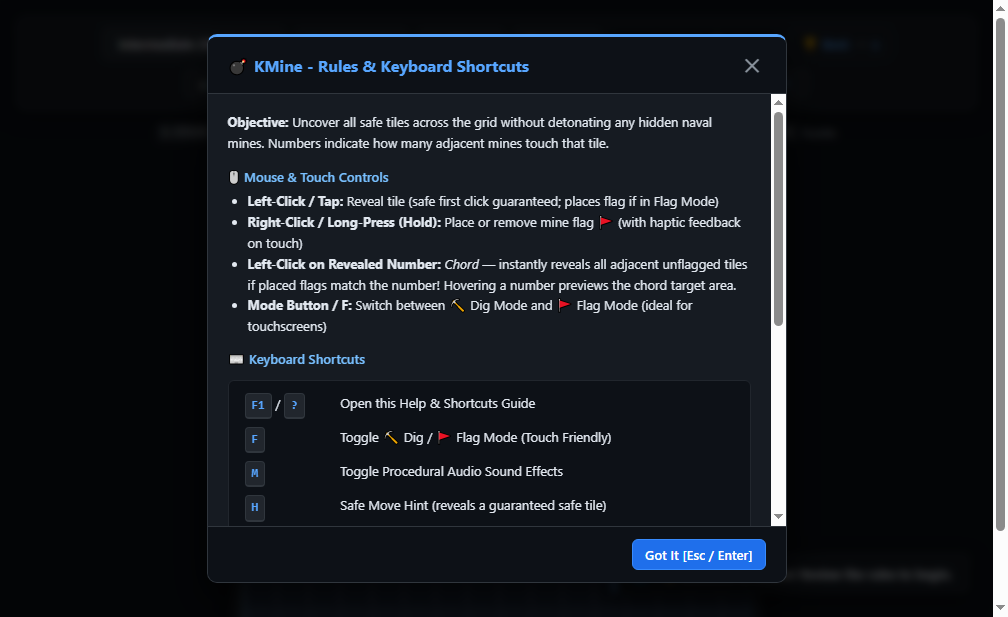
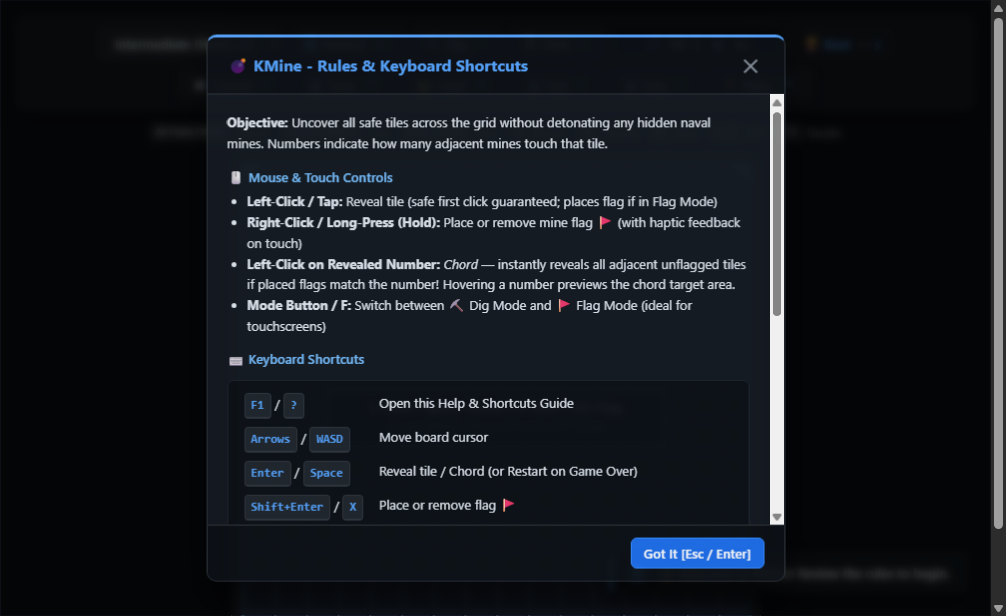
audit(test): UI audit and fixes for KMine

diff --git a/KiloOS/public/apps/kmine.html b/KiloOS/public/apps/kmine.html
@@ -375,18 +375,19 @@
       <div style="font-weight: 600; color: #79c0ff; margin-bottom: 4px;">⌨ Keyboard Shortcuts</div>
       <div class="shortcut-grid">
         <div><kbd>F1</kbd> / <kbd>?</kbd></div><div>Open this Help & Shortcuts Guide</div>
+        <div><kbd>Arrows</kbd> / <kbd>WASD</kbd></div><div>Move board cursor</div>
+        <div><kbd>Enter</kbd> / <kbd>Space</kbd></div><div>Reveal tile / Chord (or Restart on Game Over)</div>
+        <div><kbd>Shift+Enter</kbd> / <kbd>X</kbd></div><div>Place or remove flag 🚩</div>
         <div><kbd>F</kbd></div><div>Toggle ⛏ Dig / 🚩 Flag Mode (Touch Friendly)</div>
         <div><kbd>M</kbd></div><div>Toggle Procedural Audio Sound Effects</div>
         <div><kbd>H</kbd></div><div>Safe Move Hint (reveals a guaranteed safe tile)</div>
         <div><kbd>F2</kbd></div><div>Restart New Game on current difficulty</div>
-        <div><kbd>1</kbd></div><div>Beginner Mode (10×10, 15 mines)</div>
-        <div><kbd>2</kbd></div><div>Intermediate Mode (16×16, 40 mines)</div>
-        <div><kbd>3</kbd></div><div>Expert Mode (30×16, 99 mines)</div>
+        <div><kbd>1</kbd> / <kbd>2</kbd> / <kbd>3</kbd></div><div>Beginner (1), Intermediate (2), Expert (3)</div>
         <div><kbd>F5</kbd></div><div>Quicksave current game state</div>
         <div><kbd>F9</kbd></div><div>Quickload saved game state</div>
         <div><kbd>E</kbd></div><div>Export Best Times & Records (JSON)</div>
         <div><kbd>I</kbd></div><div>Import Best Times & Records (JSON)</div>
-        <div><kbd>P</kbd> / <kbd>Space</kbd></div><div>Watch Replay (after game completion)</div>
+        <div><kbd>P</kbd></div><div>Watch Replay (after game completion)</div>
         <div><kbd>Esc</kbd></div><div>Close Help Modal / Dismiss Toasts</div>
       </div>
     </div>
@@ -426,9 +427,9 @@
 </div>
 
 <div class="info-bar">
-  <span><kbd>L-Click</kbd> Reveal</span>
-  <span><kbd>R-Click</kbd> Flag</span>
-  <span><kbd>Click Number</kbd> Chord</span>
+  <span><kbd>Arrows/WASD</kbd> Move</span>
+  <span><kbd>Enter/Space</kbd> Dig</span>
+  <span><kbd>X/R-Click</kbd> Flag</span>
   <span><kbd>F</kbd> Mode</span>
   <span><kbd>M</kbd> Sound</span>
   <span><kbd>H</kbd> Hint</span>
@@ -437,7 +438,7 @@
 </div>
 
 <div id="canvas-container">
-  <canvas id="cvs"></canvas>
+  <canvas id="cvs" tabindex="0" role="region" aria-label="KMine Grid Board"></canvas>
 </div>
 
 <script>
@@ -849,10 +850,23 @@
     reader.onload = function(ev) {
       try {
         let parsed = JSON.parse(ev.target.result);
-        if (parsed && typeof parsed === 'object') {
-          bestTimes = Object.assign(bestTimes, parsed);
-          saveStats();
-          showToast("📥 Statistics imported successfully!", "success");
+        if (parsed && typeof parsed === 'object' && !Array.isArray(parsed)) {
+          let updated = false;
+          ["0", "1", "2"].forEach(k => {
+            if (k in parsed) {
+              let v = parsed[k];
+              if (v === null || (typeof v === 'number' && Number.isFinite(v) && v > 0)) {
+                bestTimes[k] = v === null ? null : Math.round(v);
+                updated = true;
+              }
+            }
+          });
+          if (updated) {
+            saveStats();
+            showToast("📥 Statistics imported successfully!", "success");
+          } else {
+            showToast("⚠ No valid best-time records found in file", "warn");
+          }
         } else {
           showToast("❌ Invalid stats format", "error");
         }
@@ -1103,6 +1117,16 @@
     }
   }
   
+  function recordAndApplyMove(x, y, btn) {
+    initAudio();
+    if (gameOver !== 0 || isReplaying) return;
+    if (x < 0 || x >= cols || y < 0 || y >= rows) return;
+    if (firstClick || !startRealTime) startRealTime = Date.now();
+    const moveOffset = Math.max(0, Date.now() - startRealTime);
+    moves.push({ t: moveOffset, x, y, b: btn });
+    applyAction(x, y, btn);
+  }
+
   function giveHint() {
     if (gameOver !== 0 || isReplaying) return;
     let actionX = -1, actionY = -1;
@@ -1123,8 +1147,9 @@
     }
     if (actionX !== -1) {
       playSfx('hint');
-      moves.push({ t: Date.now() - startRealTime, x: actionX, y: actionY, b: 0 });
-      applyAction(actionX, actionY, 0);
+      hoverX = actionX;
+      hoverY = actionY;
+      recordAndApplyMove(actionX, actionY, 0);
       showToast(`💡 Hint: Safely revealed (${actionX + 1}, ${actionY + 1})`, "info", 2000);
     }
   }
@@ -1150,6 +1175,7 @@
         requestAnimationFrame(nextFrame);
       } else {
         isReplaying = false;
+        if (gameOver !== 0) document.getElementById('replayBtn').style.display = 'inline-flex';
         showToast("🎬 Replay completed.", "info", 2000);
       }
     }
@@ -1157,8 +1183,16 @@
   }
 
   function quickSave() {
-    if (gameOver !== 0 || firstClick || isReplaying) {
-      showToast("⚠ Cannot quicksave while game over or replaying.", "warn");
+    if (isReplaying) {
+      showToast("⚠ Cannot quicksave while replaying.", "warn");
+      return;
+    }
+    if (gameOver !== 0) {
+      showToast("⚠ Cannot quicksave a finished game.", "warn");
+      return;
+    }
+    if (firstClick) {
+      showToast("⚠ Reveal at least one tile before saving.", "warn");
       return;
     }
     quickSaveData = {
@@ -1183,13 +1217,14 @@
     try {
       let d = JSON.parse(s);
       cols = d.cols; rows = d.rows; totalMines = d.totalMines;
-      document.getElementById('diff').value = d.diff;
+      if (d.diff !== undefined) document.getElementById('diff').value = d.diff;
       setupCanvas();
       grid = d.grid; state = d.state;
       timeElapsed = d.timeElapsed; flags = d.flags;
-      moves = d.moves;
+      moves = d.moves || [];
       firstClick = false; gameOver = 0; isReplaying = false;
-      startRealTime = Date.now() - d.timeOffset;
+      document.getElementById('replayBtn').style.display = 'none';
+      startRealTime = Date.now() - (d.timeOffset || 0);
       stopTimer(); startTimer();
       updateStatus(); updateBestTimeDisplay();
       safeSetStorage('kmine_tutorialSeen', '1');
@@ -1444,6 +1479,16 @@
           }
         }
 
+        // Active Focused Cursor Highlight (Keyboard / Hover)
+        if (x === hoverX && y === hoverY && gameOver === 0) {
+          ctx.save();
+          const pulse = 0.5 + 0.5 * Math.sin(animTime * 8);
+          ctx.strokeStyle = flagMode ? `rgba(245, 158, 11, ${pulse})` : `rgba(56, 189, 248, ${pulse})`;
+          ctx.lineWidth = 2;
+          ctx.strokeRect(bx + 1, by + 1, CELL - 2, CELL - 2);
+          ctx.restore();
+        }
+
         // Chording Target Preview Highlight
         if (hoverX >= 0 && hoverY >= 0 && gameOver === 0 &&
             state[hoverY][hoverX] === 1 && grid[hoverY][hoverX] > 0 &&
@@ -1562,7 +1607,7 @@
     drawCornerFiligree(totalW - 2, totalH - 2, cornerSize, true, true);
 
     if (firstClick && gameOver === 0) {
-      const bannerW = Math.min(320, totalW - 20);
+      const bannerW = Math.min(340, totalW - 20);
       const bannerH = 56;
       const bx = (totalW - bannerW) / 2;
       const by = (totalH - bannerH) / 2;
@@ -1577,10 +1622,10 @@
       ctx.font = "bold 13px 'Segoe UI', Arial, sans-serif";
       ctx.textAlign = "center";
       ctx.textBaseline = "middle";
-      ctx.fillText("L-Click: Reveal | R-Click / [F]: Flag", totalW / 2, by + 18);
+      ctx.fillText("L-Click / Space: Reveal | R-Click / [X]: Flag", totalW / 2, by + 18);
       ctx.fillStyle = "#38bdf8";
       ctx.font = "12px 'Segoe UI', Arial, sans-serif";
-      ctx.fillText("Press 'H' Hint | 'M' Sound | 'F1' Guide", totalW / 2, by + 38);
+      ctx.fillText("Arrows/WASD: Move | 'H' Hint | 'F1' Guide", totalW / 2, by + 38);
     }
 
     ctx.restore();
@@ -1617,8 +1662,9 @@
   cvs.addEventListener('mousedown', (e) => {
     initAudio();
     if (Date.now() - lastTouchTime < 400) return;
-    if (gameOver !== 0 || isReplaying) {
-      if (gameOver !== 0) initGame();
+    if (isReplaying) return;
+    if (gameOver !== 0) {
+      initGame();
       return;
     }
     const rect = cvs.getBoundingClientRect();
@@ -1628,14 +1674,14 @@
     const y = Math.floor((e.clientY - rect.top) / cellHeight);
     if (x < 0 || x >= cols || y < 0 || y >= rows) return;
     
+    hoverX = x;
+    hoverY = y;
     let effBtn = e.button;
     if (effBtn === 0 && flagMode && state[y][x] === 0) {
       effBtn = 2;
     }
 
-    if (firstClick) startRealTime = Date.now();
-    moves.push({ t: Date.now() - startRealTime, x, y, b: effBtn });
-    applyAction(x, y, effBtn);
+    recordAndApplyMove(x, y, effBtn);
   });
 
   cvs.addEventListener('touchstart', (e) => {
@@ -1653,13 +1699,14 @@
     const y = Math.floor((t.clientY - rect.top) / cellHeight);
 
     if (x >= 0 && x < cols && y >= 0 && y < rows) {
+      hoverX = x;
+      hoverY = y;
       touchTimer = setTimeout(() => {
         touchLongPressed = true;
         if (gameOver !== 0 || isReplaying) return;
         if (state[y][x] !== 1) {
           if (navigator.vibrate) navigator.vibrate(35);
-          moves.push({ t: Date.now() - startRealTime, x, y, b: 2 });
-          applyAction(x, y, 2);
+          recordAndApplyMove(x, y, 2);
         }
       }, 320);
     }
@@ -1687,8 +1734,9 @@
     e.preventDefault();
     lastTouchTime = Date.now();
 
-    if (gameOver !== 0 || isReplaying) {
-      if (gameOver !== 0) initGame();
+    if (isReplaying) return;
+    if (gameOver !== 0) {
+      initGame();
       return;
     }
 
@@ -1700,10 +1748,10 @@
     const y = Math.floor((t.clientY - rect.top) / cellHeight);
     if (x < 0 || x >= cols || y < 0 || y >= rows) return;
 
+    hoverX = x;
+    hoverY = y;
     let effBtn = (flagMode && state[y][x] === 0) ? 2 : 0;
-    if (firstClick) startRealTime = Date.now();
-    moves.push({ t: Date.now() - startRealTime, x, y, b: effBtn });
-    applyAction(x, y, effBtn);
+    recordAndApplyMove(x, y, effBtn);
   }, { passive: false });
 
   cvs.addEventListener('touchcancel', () => {
@@ -1760,7 +1808,48 @@
       exportStats();
     } else if (e.key === 'i' || e.key === 'I') {
       document.getElementById('fileIn').click();
-    } else if (e.key === 'p' || e.key === 'P' || (e.key === ' ' && gameOver !== 0)) {
+    } else if (e.key === 'ArrowLeft' || e.key === 'a' || e.key === 'A') {
+      e.preventDefault();
+      if (hoverX < 0 || hoverY < 0) { hoverX = Math.floor(cols / 2); hoverY = Math.floor(rows / 2); }
+      else { hoverX = (hoverX - 1 + cols) % cols; }
+    } else if (e.key === 'ArrowRight' || e.key === 'd' || e.key === 'D') {
+      e.preventDefault();
+      if (hoverX < 0 || hoverY < 0) { hoverX = Math.floor(cols / 2); hoverY = Math.floor(rows / 2); }
+      else { hoverX = (hoverX + 1) % cols; }
+    } else if (e.key === 'ArrowUp' || e.key === 'w' || e.key === 'W') {
+      e.preventDefault();
+      if (hoverX < 0 || hoverY < 0) { hoverX = Math.floor(cols / 2); hoverY = Math.floor(rows / 2); }
+      else { hoverY = (hoverY - 1 + rows) % rows; }
+    } else if (e.key === 'ArrowDown' || e.key === 's' || e.key === 'S') {
+      e.preventDefault();
+      if (hoverX < 0 || hoverY < 0) { hoverX = Math.floor(cols / 2); hoverY = Math.floor(rows / 2); }
+      else { hoverY = (hoverY + 1) % rows; }
+    } else if (e.key === 'Enter' || e.key === ' ') {
+      if (gameOver !== 0) {
+        if (e.key === 'Enter') {
+          e.preventDefault();
+          initGame();
+        } else if (e.key === ' ' || e.key === 'p' || e.key === 'P') {
+          if (document.getElementById('replayBtn').style.display !== 'none') {
+            e.preventDefault();
+            startReplay();
+          } else {
+            initGame();
+          }
+        }
+      } else if (!isReplaying) {
+        if (hoverX < 0 || hoverY < 0) { hoverX = Math.floor(cols / 2); hoverY = Math.floor(rows / 2); }
+        e.preventDefault();
+        let effBtn = (flagMode || e.shiftKey) ? 2 : 0;
+        recordAndApplyMove(hoverX, hoverY, effBtn);
+      }
+    } else if (e.key === 'x' || e.key === 'X' || e.key === 'c' || e.key === 'C') {
+      if (gameOver === 0 && !isReplaying) {
+        if (hoverX < 0 || hoverY < 0) { hoverX = Math.floor(cols / 2); hoverY = Math.floor(rows / 2); }
+        e.preventDefault();
+        recordAndApplyMove(hoverX, hoverY, 2);
+      }
+    } else if (e.key === 'p' || e.key === 'P') {
       if (document.getElementById('replayBtn').style.display !== 'none') {
         e.preventDefault();
         startReplay();

diff --git a/next_work.md b/next_work.md
@@ -1,6 +1,6 @@
 ---
-current_agent: kilo-tester
-next_agent: kilo-usability
+current_agent: kilo-usability
+next_agent: kilo-qa
 agent_rotation:
   - kilo-creator
   - kilo-graphics
@@ -14,7 +14,7 @@ status: ready
 current_targets:
   kilo_creator: "kweb://deep-core"
   kilo_graphics: KQuest
-  kilo_tester: KMine
+  kilo_tester: KSnake
   kilo_usability: KChess
   kilo_qa: KPac
   kilo_expander: KMine
@@ -32,9 +32,9 @@ virtual_web_rotation:
   - "kweb://webring"
   - "kweb://warez"
 last_run:
-  agent: kilo-graphics
-  app: KPac
-  timestamp: "2026-10-06T12:50:00-07:00"
+  agent: kilo-tester
+  app: KMine
+  timestamp: "2026-10-06T13:06:00-07:00"
 last_planner_run: "2026-10-06T14:20:00Z"
 ---
 
@@ -114,9 +114,9 @@ The Windows Task Scheduler orchestrator (`scripts/orchestrate.py`) parses the YA
   `KRogue`, `KColosseum`, `KAbyss`, `KBreakout`, `KAsteroids`, `KSpace`, `KPac` *(Note: Pure vector/wireframe or abstract board targets skip automatically per Mandate 15. Completed: KQuest Phases 1-5, KSpace)*.
 
 ### 3. App Tester Queue (`kilo-tester`)
-- **Current Target**: `KMine`
+- **Current Target**: `KSnake`
 - **Upcoming Queue**:
-  `KSnake`, `KTetris`, `KPong`, `KMaze`, `KSolitaire`, `KChess`, `KColor`, `KTimer`, `KConverter`, `KQuarantine`, `KSettings`, `KTaskMgr`, `K2048`, `KSudoku`, `KConnect4`, `KHangman`, `KSimon`, `KFreecell`, `KMatch3`, `KWords`, `KGo`, `KDarts`, `KRSS`, `KClip`, `KCipher`, `KCalc` *(Completed: KStarForge, KTask, KChrono, KSys, KSynth, KCyber, KCosmic, KContacts, KDB, KDragon, KFlash, KFont, KFortress, KGraph, KHabit, KHex, KImage, KJournal, KMail, KMandel, KMech, KMedia, KMystery, KNet, KNote, KPad, KPaint, KPass, KPing, KQuest, KRadio, KRead, KSanctuary, KScript, KStarDredge, KStarship, KStellar, KSubmarine, KTerm, KHash, KRSS, KClip, KCipher, KCalc)*.
+  `KTetris`, `KPong`, `KMaze`, `KSolitaire`, `KChess`, `KColor`, `KTimer`, `KConverter`, `KQuarantine`, `KSettings`, `KTaskMgr`, `K2048`, `KSudoku`, `KConnect4`, `KHangman`, `KSimon`, `KFreecell`, `KMatch3`, `KWords`, `KGo`, `KDarts`, `KRSS`, `KClip`, `KCipher`, `KCalc`, `KMine` *(Completed: KStarForge, KTask, KChrono, KSys, KSynth, KCyber, KCosmic, KContacts, KDB, KDragon, KFlash, KFont, KFortress, KGraph, KHabit, KHex, KImage, KJournal, KMail, KMandel, KMech, KMedia, KMystery, KNet, KNote, KPad, KPaint, KPass, KPing, KQuest, KRadio, KRead, KSanctuary, KScript, KStarDredge, KStarship, KStellar, KSubmarine, KTerm, KHash, KRSS, KClip, KCipher, KCalc, KMine)*.
 
 ### 4. Usability & UX Queue (`kilo-usability`)
 - **Current Target**: `KChess`
@@ -217,6 +217,15 @@ The Windows Task Scheduler orchestrator (`scripts/orchestrate.py`) parses the YA
 
 ## Recent Execution Logs (Max 5 Entries)
 
+- **2026-10-06T13:06:00-07:00 — kilo-tester: KMine (Interactive UI Audit, Keyboard Board Navigation & State Integrity Fixes)**
+  - Status: PASS ✅ (0 regressions, 58.0 KB web / 26.5 KB native < 999 KB ceiling).
+  - Move Timing & Replay: Fixed `startRealTime` uninitialized zero bug in `giveHint` and touch long-press; replay playback now functions reliably.
+  - State & Persistence: Fixed replay button remaining visible on quickload; added granular status checks to quicksave; sanitized stats import.
+  - Keyboard & Ergonomics: Added full Arrow/WASD board cursor navigation, Enter/Space dig, and Shift+Enter/X flag controls with active focus indicator.
+  - Accessibility & Polish: Added tabindex/ARIA attributes to canvas; documented all new hotkeys in Help guide and shortcut bar.
+  - Verification: `test_app_startup.py` PASS; `test_web_apps.js` PASS (15 elements); MSVC clean (`KMine.exe` 26.5 KB); Vite clean (452ms); security_lint 100% PASS.
+  - Queue: Advanced `kilo_tester` to `KSnake`; rotation advanced to `kilo-usability`.
+
 - **2026-10-06T12:50:00-07:00 — kilo-graphics: KPac (Skip Turn — Inappropriate Target & Glint/Dot Audit)**
   - Status: ⏭ Skip — Imagen 3 asset replacement not appropriate for KPac
   - Rationale: Authentic retro arcade classic maze game (Loop 9+); already mature & locked in human review queue.
@@ -252,13 +261,3 @@ The Windows Task Scheduler orchestrator (`scripts/orchestrate.py`) parses the YA
   - Toast Occlusion Remediation: Centered non-occluding click-to-dismiss toast (Directive 185); timer conflict resolved.
   - Verification: `test_web_apps.js` PASS (46 elements, 0 errors); MSVC clean (`KPong.exe` 44.5 KB); Vite clean (498ms); security_lint 100% PASS.
   - Queue: Advanced `kilo_qa` to `KPac`; rotation advanced to `kilo-expander`.
-
-- **2026-10-06T11:55:00-07:00 — kilo-usability: KColor (Window Sizing, Onboarding & Dynamic Slider Ergonomics)**
-  - Status: PASS ✅ (0 regressions, 61.3 KB web / 16.0 KB native < 999 KB ceiling).
-  - Window & Layout Ergonomics: Tuned default window dimensions to 880x660 in `App.jsx` to show full 2-panel studio; added responsive header wrapping for narrow views.
-  - Onboarding & Tutorial: Added first-run guide (`kcolor_tutorialSeen`) with auto-opening modal, "Don't show on startup" option, and F1/H key navigation.
-  - Real-Time Track Feedback: Wired live gradient tracks to RGB/HSL/HSV sliders mirroring color components; added 1-9 keyboard badges to swatches.
-  - Color Comparison & Revert: Added previous vs current color comparison bar in preview box with one-click restoration (`revertToPrevColor`).
-  - Toast & Native Parity: Centered non-occluding click-to-dismiss toast (Directive 185); added Help button (F1), dialog, and hotkeys to Win32 C (`KColor.exe`).
-  - Verification: `test_web_apps.js` PASS (57 elements, 0 errors); Vite clean (307ms); `check_icons.py` PASS; `security_lint.py` 100% PASS.
-  - Queue: Advanced `kilo_usability` to `KChess`; rotation advanced to `kilo-qa`.

diff --git a/archive/fleet_execution_archive.md b/archive/fleet_execution_archive.md
@@ -4,6 +4,16 @@ This file stores historical execution logs archived from `next_work.md` to keep 
 
 ## Archived Logs (Pre-Windows Task Scheduler Cutover)
 
+- **2026-10-06T11:55:00-07:00 — kilo-usability: KColor (Window Sizing, Onboarding & Dynamic Slider Ergonomics)**
+  - Status: PASS ✅ (0 regressions, 61.3 KB web / 16.0 KB native < 999 KB ceiling).
+  - Window & Layout Ergonomics: Tuned default window dimensions to 880x660 in `App.jsx` to show full 2-panel studio; added responsive header wrapping for narrow views.
+  - Onboarding & Tutorial: Added first-run guide (`kcolor_tutorialSeen`) with auto-opening modal, "Don't show on startup" option, and F1/H key navigation.
+  - Real-Time Track Feedback: Wired live gradient tracks to RGB/HSL/HSV sliders mirroring color components; added 1-9 keyboard badges to swatches.
+  - Color Comparison & Revert: Added previous vs current color comparison bar in preview box with one-click restoration (`revertToPrevColor`).
+  - Toast & Native Parity: Centered non-occluding click-to-dismiss toast (Directive 185); added Help button (F1), dialog, and hotkeys to Win32 C (`KColor.exe`).
+  - Verification: `test_web_apps.js` PASS (57 elements, 0 errors); Vite clean (307ms); `check_icons.py` PASS; `security_lint.py` 100% PASS.
+  - Queue: Advanced `kilo_usability` to `KChess`; rotation advanced to `kilo-qa`.
+
 - **2026-10-06T11:46:00-07:00 — kilo-tester: KCalc (UI Element Audit, Scientific Notation Parser & State Integrity Fixes)**
   - Status: PASS ✅ (0 regressions, 117.2 KB web < 999 KB ceiling).
   - Parser & Evaluator: Fixed implicit mult regex to protect scientific notation (`6.626e-34`, `1e5`); added full constants to `ctx` (`N_A`, `k_B`, `phi`, etc.).
